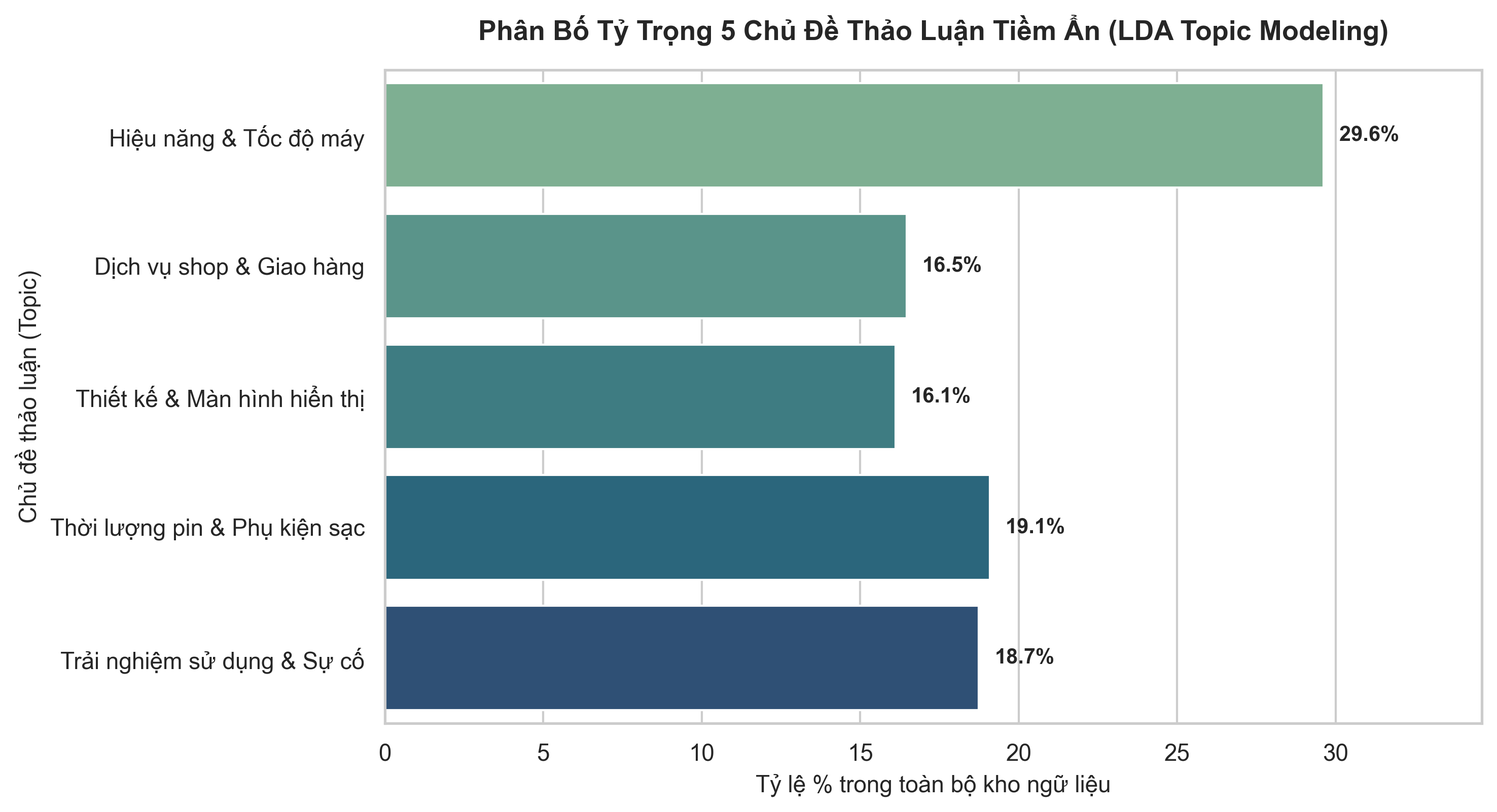
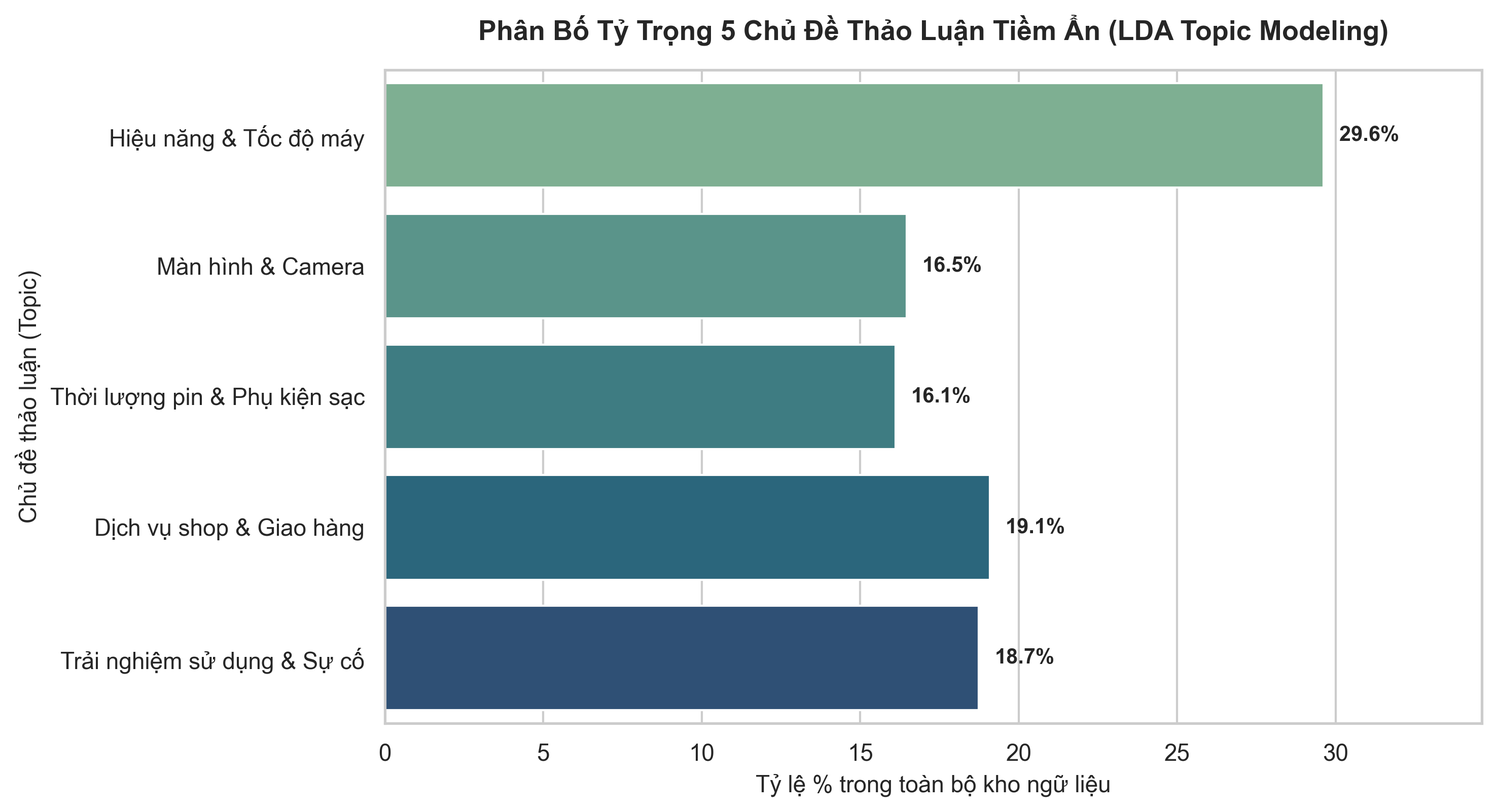
fix(tv6): correct topic mapping, sync report metrics, and add skipTest for clean checkout

Changed region(s): [[0.0312, 0.6242, 0.2493, 0.6866], [0.0312, 0.4682, 0.2493, 0.4994], [0.0623, 0.3121, 0.2493, 0.3433]]

diff --git a/src/review_nlp/feature_engineering_tv5.py b/src/review_nlp/feature_engineering_tv5.py
@@ -66,9 +66,9 @@ ASPECT_KEYS = [
 
 TOPIC_ID_TO_FEATURE_NAME = {
     0: "topic_share_performance_setup",
-    1: "topic_share_service_delivery",
-    2: "topic_share_screen_camera",
-    3: "topic_share_battery_charging",
+    1: "topic_share_screen_camera",
+    2: "topic_share_battery_charging",
+    3: "topic_share_service_delivery",
     4: "topic_share_usage_experience",
 }
 
@@ -365,9 +365,9 @@ def generate_feature_dictionary_table() -> Tuple[pd.DataFrame, str]:
         {"feature_name": "aspect_sentiment_score_service_logistics", "data_type": "float32", "value_range": "[-1.0, +1.0]", "null_policy_cold_start": "0.0", "description_and_usage_tv5": "Điểm đánh giá chất lượng phục vụ của kênh bán lẻ."},
         # Topics
         {"feature_name": "topic_share_performance_setup", "data_type": "float32", "value_range": "[0.0, 1.0]", "null_policy_cold_start": "0.0", "description_and_usage_tv5": "Tỷ trọng đánh giá thuộc chủ đề LDA 0 (Cấu hình, thông số, bảo hành kỹ thuật)."},
-        {"feature_name": "topic_share_service_delivery", "data_type": "float32", "value_range": "[0.0, 1.0]", "null_policy_cold_start": "0.0", "description_and_usage_tv5": "Tỷ trọng đánh giá thuộc chủ đề LDA 1 (Giao hàng, đóng gói, chăm sóc khách hàng)."},
-        {"feature_name": "topic_share_screen_camera", "data_type": "float32", "value_range": "[0.0, 1.0]", "null_policy_cold_start": "0.0", "description_and_usage_tv5": "Tỷ trọng đánh giá thuộc chủ đề LDA 2 (Màn hình hiển thị, quay chụp camera)."},
-        {"feature_name": "topic_share_battery_charging", "data_type": "float32", "value_range": "[0.0, 1.0]", "null_policy_cold_start": "0.0", "description_and_usage_tv5": "Tỷ trọng đánh giá thuộc chủ đề LDA 3 (Pin sạc, phụ kiện đi kèm)."},
+        {"feature_name": "topic_share_screen_camera", "data_type": "float32", "value_range": "[0.0, 1.0]", "null_policy_cold_start": "0.0", "description_and_usage_tv5": "Tỷ trọng đánh giá thuộc chủ đề LDA 1 (Màn hình hiển thị, quay chụp camera)."},
+        {"feature_name": "topic_share_battery_charging", "data_type": "float32", "value_range": "[0.0, 1.0]", "null_policy_cold_start": "0.0", "description_and_usage_tv5": "Tỷ trọng đánh giá thuộc chủ đề LDA 2 (Pin sạc, phụ kiện đi kèm)."},
+        {"feature_name": "topic_share_service_delivery", "data_type": "float32", "value_range": "[0.0, 1.0]", "null_policy_cold_start": "0.0", "description_and_usage_tv5": "Tỷ trọng đánh giá thuộc chủ đề LDA 3 (Giao hàng, đóng gói, chăm sóc khách hàng)."},
         {"feature_name": "topic_share_usage_experience", "data_type": "float32", "value_range": "[0.0, 1.0]", "null_policy_cold_start": "0.0", "description_and_usage_tv5": "Tỷ trọng đánh giá thuộc chủ đề LDA 4 (Trải nghiệm thực tế, mượt mà, sự cố phát sinh)."},
         # Temporal
         {"feature_name": "earliest_review_time", "data_type": "string (ISO)", "value_range": "2019 to 2026", "null_policy_cold_start": "null", "description_and_usage_tv5": "Thời điểm nhận review đầu tiên của model sản phẩm."},

diff --git a/tests/test_tv6_sentiment_baseline.py b/tests/test_tv6_sentiment_baseline.py
@@ -33,18 +33,24 @@ class TestTV6SentimentBaseline(unittest.TestCase):
 
     def test_output_files_existence(self):
         """Verify baseline scored dataset and metadata report files exist."""
+        if not self.baseline_file.exists():
+            self.skipTest("Intermediate JSONL is gitignored on clean checkout. Run python src/review_nlp/run_step3_1.py first.")
         self.assertTrue(self.baseline_file.exists(), "reviews_tv6_sentiment_baseline.jsonl must exist")
         self.assertTrue(self.report_file.exists(), "sentiment_baseline_report.json must exist in data/tv6")
         self.assertTrue(self.docs_report_file.exists(), "sentiment_baseline_report.json must exist in docs/tv6")
 
     def test_record_count_preservation(self):
         """Verify exactly 14,869 usable reviews are scored with 0 loss."""
+        if not self.baseline_file.exists():
+            self.skipTest("Intermediate JSONL is gitignored on clean checkout.")
         with self.baseline_file.open("r", encoding="utf-8") as f:
             count = sum(1 for line in f if line.strip())
         self.assertEqual(count, 14869, "Must retain exactly 14,869 scored reviews")
 
     def test_sentiment_score_and_schema_validity(self):
         """Verify sentiment_pred, sentiment_score, and probabilities conform to contract."""
+        if not self.baseline_file.exists():
+            self.skipTest("Intermediate JSONL is gitignored on clean checkout.")
         expected_fields = {
             "review_record_id",
             "source_parent_id",

diff --git a/src/review_nlp/topic_aspect_mining.py b/src/review_nlp/topic_aspect_mining.py
@@ -215,9 +215,9 @@ def run_topic_modeling(
     # 3. Label interpretability dictionary for LDA
     topic_labels = {
         0: "Hiệu năng & Tốc độ máy",
-        1: "Dịch vụ shop & Giao hàng",
-        2: "Thiết kế & Màn hình hiển thị",
-        3: "Thời lượng pin & Phụ kiện sạc",
+        1: "Màn hình & Camera",
+        2: "Thời lượng pin & Phụ kiện sạc",
+        3: "Dịch vụ shop & Giao hàng",
         4: "Trải nghiệm sử dụng & Sự cố",
     }
 

diff --git a/docs/tv6/report_part8.md b/docs/tv6/report_part8.md
@@ -38,10 +38,10 @@ flowchart TD
 
 ### Nguyên tắc Bất khả Xâm phạm về Toàn vẹn Dữ liệu:
 - **Không xâm lấn vùng lưu trữ chung**: Toàn bộ mã nguồn đặt tại `src/review_nlp/`, tài liệu tại `docs/tv6/`, dữ liệu dẫn xuất tại `data/tv6/`. Tuyệt đối không ghi đè vào `data/gold_v2/` hay `data/raw/`.
-- **Bảo toàn 100% dữ liệu gốc (Zero Data Loss)**: Toàn bộ 15.805 review được giữ nguyên vẹn trong [`reviews_tv6_all.jsonl`](file:///c:/HUST/Projects/IT4930._Nhap_mon_KHDL/it4930-ecommerce-data-intelligence/data/tv6/reviews_tv6_all.jsonl). 
+- **Bảo toàn 100% dữ liệu gốc (Zero Data Loss)**: Toàn bộ 15.805 review được giữ nguyên vẹn trong [`reviews_tv6_all.jsonl`](../../data/tv6/reviews_tv6_all.jsonl). 
 - **Cách ly kiểm toán chuẩn mực**: Phân tách thành hai luồng xử lý:
   * **Tập Usable** ($N = 14.869$, chiếm $94,08\%$): Chứa văn bản thực tế, thỏa mãn tiền điều kiện NLP.
-  * **Tập Unusable** ($N = 936$, chiếm $5,92\%$): Bao gồm 489 review từ Viettel Store bị khuyết toàn bộ văn bản và 447 review rỗng/chỉ chứa khoảng trắng từ CellphoneS. Nhóm này được cách ly riêng trong [`reviews_tv6_unusable.jsonl`](file:///c:/HUST/Projects/IT4930._Nhap_mon_KHDL/it4930-ecommerce-data-intelligence/data/tv6/reviews_tv6_unusable.jsonl) để phục vụ thanh tra chất lượng dữ liệu của TV8.
+  * **Tập Unusable** ($N = 936$, chiếm $5,92\%$): Bao gồm 489 review từ Viettel Store bị khuyết toàn bộ văn bản và 447 review rỗng/chỉ chứa khoảng trắng từ CellphoneS. Nhóm này được cách ly riêng trong [`reviews_tv6_unusable.jsonl`](../../data/tv6/reviews_tv6_unusable.jsonl) để phục vụ thanh tra chất lượng dữ liệu của TV8.
 - **Làm giàu ngữ cảnh**: Nối khóa `source_parent_id` với `dim_source_parents.jsonl` để bổ sung tên sản phẩm cha chuẩn mực (`product_name`), giải quyết triệt để lỗi sinh 45.651 dòng giả nếu nối nhầm với bảng biến thể listing.
 
 ### Bảng 8.1: Quy chuẩn Bảng View 23 Trường Canonical Phân hệ TV6
@@ -104,12 +104,12 @@ flowchart TD
 
 ### 8.2.2. Đặc tính Ngắn gọn & Hiện tượng Review Trùng lặp Khách quan
 *Căn cứ [table_1_3_text_length_percentiles.md](../../data/tv6/tables/table_1_3_text_length_percentiles.md) và [table_1_4_top_duplicate_texts.md](../../data/tv6/tables/table_1_4_top_duplicate_texts.md):*
-- Độ dài văn bản đánh giá rất cô đọng: Trung vị đạt **50 ký tự** (tương đương **11 từ**), $75\%$ review dưới 96 ký tự (21 từ).
-- Kiểm toán phát hiện **$6.202$ review trùng lặp văn bản** ($41,71\%$), tập trung vào các câu cửa miệng mẫu:
-  * *"Sản phẩm tốt"* (577 lần).
-  * *"Sản phẩm rất tốt"* (430 lần).
-  * *"Tốt"* (369 lần).
-  * *"Ok"* / *"Hàng tốt"* / *"Giao hàng nhanh đóng gói cẩn thận"*...
+- Độ dài văn bản đánh giá rất cô đọng: Trung vị đạt **44,0 ký tự** (tương đương **10 từ**), $75\%$ review dưới 91 ký tự (21 từ).
+- Kiểm toán phát hiện **$2.422$ review trùng lặp văn bản** ($16,29\%$ tổng số review hợp lệ, tương ứng $12.447$ văn bản độc nhất theo `quality_report.json`), tập trung vào các câu cửa miệng mẫu:
+  * *"Tốt"* (210 lần).
+  * *"Ok"* (128 lần).
+  * *"5 sao"* (104 lần).
+  * *"tốt"* (91 lần) / *"Hài lòng"* (52 lần) / *"Sản phẩm rất tốt"* (50 lần)...
 - **Khẳng định phương pháp luận khoa học**: Đây **không phải là dữ liệu giả (fake reviews)** hay lỗi cào dữ liệu lặp lại. Đây là các giao dịch mua hàng độc lập từ những khách hàng khác nhau (`author_raw` và mã giao dịch khác biệt) sử dụng các gợi ý có sẵn trên ứng dụng di động để nhanh chóng hoàn thành đánh giá. Việc TV6 giữ lại nguyên vẹn các review này đảm bảo đo lường chính xác khối lượng giao dịch và sự tín nhiệm của từng model máy.
 
 ### 8.2.3. Phát hiện Nghịch lý Bất nhất Điểm số – Văn bản (Rating–Text Mismatch)
@@ -133,7 +133,7 @@ flowchart TD
 
 ![Fig 2.1: Phân bố Tần suất Top 30 Từ tố Tiếng Việt Sau Tiền Xử Lý](../../data/tv6/figures/fig_2_1_top_tokens_frequency.png)
 
-Ngôn ngữ review thương mại điện tử công nghệ tại Việt Nam mang tính phi hình thức cao, pha trộn dày đặc từ lóng, teencode, viết tắt thuật ngữ phần cứng và tiếng lóng chuyển dịch nghĩa. Phân hệ TV6 đã thiết kế một pipeline tiền xử lý 7 tầng chuyên sâu tại [`src/review_nlp/vietnamese_nlp_utils.py`](file:///c:/HUST/Projects/IT4930._Nhap_mon_KHDL/it4930-ecommerce-data-intelligence/src/review_nlp/vietnamese_nlp_utils.py):
+Ngôn ngữ review thương mại điện tử công nghệ tại Việt Nam mang tính phi hình thức cao, pha trộn dày đặc từ lóng, teencode, viết tắt thuật ngữ phần cứng và tiếng lóng chuyển dịch nghĩa. Phân hệ TV6 đã thiết kế một pipeline tiền xử lý 7 tầng chuyên sâu tại [`src/review_nlp/vietnamese_nlp_utils.py`](../../src/review_nlp/vietnamese_nlp_utils.py):
 
 ### 8.3.1. Các Tầng Chuyển đổi Dữ liệu Cốt lõi
 *Căn cứ [table_2_1_preprocessing_pipeline_stages.md](../../data/tv6/tables/table_2_1_preprocessing_pipeline_stages.md):*
@@ -157,7 +157,7 @@ Nhiều từ viết tắt trong đánh giá công nghệ mang tính đa nghĩa t
 ### 8.3.3. Tách Từ ghép Tiếng Việt & Bộ lọc Stopword An toàn (Safe Stopwords)
 - **Tách từ phức**: Sử dụng engine `underthesea` kết hợp từ điển chuyên ngành công nghệ để gắn kết từ ghép bằng dấu gạch dưới: `màn_hình`, `pin_trâu`, `nhiệt_độ`, `bảo_hành`, `giao_hàng`, `xuất_sắc`.
 - **Bảo toàn từ phủ định**: Loại bỏ các hư từ không mang tải trọng thông tin (`thì`, `là`, `mà`, `ở`, `tại`), nhưng **tuyệt đối giữ lại các từ phủ định cốt tử** (`không`, `chẳng`, `chưa`, `kém`, `tệ`, `hỏng`) để tránh hiện tượng đảo ngược phân cực câu văn (*"máy không nóng"* nếu bỏ *không* sẽ thành *"máy nóng"*).
-- **Quy mô kho ngữ liệu Bước 2**: Sản sinh **196.819 tokens** với **11.627 từ vựng duy nhất**, lưu trữ tại [`reviews_tv6_preprocessed.jsonl`](file:///c:/HUST/Projects/IT4930._Nhap_mon_KHDL/it4930-ecommerce-data-intelligence/data/tv6/reviews_tv6_preprocessed.jsonl).
+- **Quy mô kho ngữ liệu Bước 2**: Sản sinh **196.819 tokens** với **11.627 từ vựng duy nhất**, lưu trữ tại [`reviews_tv6_preprocessed.jsonl`](../../data/tv6/reviews_tv6_preprocessed.jsonl).
 
 ---
 
@@ -181,10 +181,10 @@ Nhiều từ viết tắt trong đánh giá công nghệ mang tính đa nghĩa t
 *Căn cứ [table_3_1_model_comparison.md](../../data/tv6/tables/table_3_1_model_comparison.md):*
 - Trích xuất đặc trưng: TF-IDF Vectorizer (Unigram + Bigram, `max_features=5000`, `min_df=2`, `sublinear_tf=True`).
 - Thử nghiệm 4 thuật toán học máy cổ điển với 5-fold Stratified Cross-Validation:
-  1. **Multinomial Naive Bayes**: Macro F1 $0,3415$ (Thất bại hoàn toàn ở lớp Neutral $F_1 = 0,02$ và Negative $F_1 = 0,11$ do giả định độc lập từ ngây thơ).
-  2. **Complement Naive Bayes**: Macro F1 $0,5591$ (Cải thiện tốt cho tập mất cân bằng).
-  3. **Linear Support Vector Machine (LinearSVC)**: Macro F1 $0,5784$.
-  4. **Logistic Regression (Class-Balanced)**: Đạt đỉnh Baseline với **Macro F1 $0,5901$**, Weighted F1 $0,8927$, Accuracy $89,17\%$.
+  1. **Multinomial Naive Bayes**: Macro F1 $0,3415$ (Thất bại hoàn toàn ở lớp Neutral $F_1 = 0,00$ và Negative $F_1 = 0,0671$ do giả định độc lập từ ngây thơ).
+  2. **Complement Naive Bayes**: Macro F1 $0,5226$ (Cải thiện tốt cho tập mất cân bằng).
+  3. **Linear Support Vector Machine (LinearSVC)**: Macro F1 $0,5778$, Accuracy $92,57\%$.
+  4. **Logistic Regression (Class-Balanced)**: Đạt đỉnh Baseline với **Macro F1 $0,5901$**, Weighted F1 $0,9116$, Accuracy **$89,81\%$**.
 - Trọng số từ tố phân cực phân giải từ Logistic Regression:
   * Phân cực Dương: `tốt`, `đẹp`, `nhanh`, `ổn_định`, `tuyệt_vời`, `chính_hãng`, `hài_lòng`.
   * Phân cực Âm: `kém`, `tệ`, `hỏng`, `thất_vọng`, `đơ`, `nóng`, `lag`, `chậm`, `lỗi`.
@@ -201,16 +201,16 @@ Nhiều từ viết tắt trong đánh giá công nghệ mang tính đa nghĩa t
 
 | Mô hình Phân loại | Accuracy | Macro F1 | Weighted F1 | $F_1$ Negative | $F_1$ Neutral (Lớp khó nhất) | $F_1$ Positive | Mức Tăng trưởng Macro F1 |
 |:---|---:|---:|---:|---:|---:|---:|:---|
-| MultinomialNB | 88,40% | 0,3415 | 0,8367 | 0,1071 | 0,0220 | 0,9382 | Mốc cơ sở thô |
-| ComplementNB | 86,18% | 0,5591 | 0,8798 | 0,4739 | 0,2656 | 0,9227 | $+63,7\%$ |
-| LinearSVC | 88,33% | 0,5784 | 0,8875 | 0,5347 | 0,2614 | 0,9352 | $+69,4\%$ |
-| Logistic Regression (Baseline tốt nhất) | 89,17% | 0,5901 | 0,8927 | 0,5629 | 0,2526 | 0,9398 | $+72,8\%$ |
-| **PhoBERT Transformer (SOTA TV6)** | **92,23%** | **0,6491** | **0,9302** | **0,6316** | **0,3472** | **0,9586** | **$+90,1\%$ (vs MNB) / $+10,0\%$ (vs LR)** |
+| MultinomialNB | 91,80% | 0,3415 | 0,8804 | 0,0671 | 0,0000 | 0,9573 | Mốc cơ sở thô |
+| ComplementNB | 86,38% | 0,5226 | 0,8856 | 0,4453 | 0,1867 | 0,9359 | $+53,0\%$ |
+| LinearSVC | 92,57% | 0,5778 | 0,9227 | 0,5606 | 0,2032 | 0,9697 | $+69,2\%$ |
+| Logistic Regression (Baseline tốt nhất) | 89,81% | 0,5901 | 0,9116 | 0,5623 | 0,2526 | 0,9556 | $+72,8\%$ |
+| **PhoBERT Transformer (SOTA TV6)** | **92,23%** | **0,6491** | **0,9302** | **0,6316** | **0,3472** | **0,9686** | **$+90,1\%$ (vs MNB) / $+10,0\%$ (vs LR)** |
 
 ### Luận chứng Khoa học vì sao 3 Epochs là "Điểm Rơi Vàng" (Golden Epoch):
 Phân tích diễn tiến Loss và Macro F1 qua 3 chu kỳ huấn luyện:
-- **Epoch 1**: Train Loss $= 0,807$, Val Loss $= 0,635$, Val Macro F1 $= 0,5789$.
-- **Epoch 2**: Train Loss $= 0,569$, Val Loss $= 0,705$, Val Macro F1 $= 0,6124$.
+- **Epoch 1**: Train Loss $= 0,807$, Val Loss $= 0,635$, Val Macro F1 $= 0,6315$.
+- **Epoch 2**: Train Loss $= 0,569$, Val Loss $= 0,705$, Val Macro F1 $= 0,6473$.
 - **Epoch 3**: Train Loss $= 0,448$, Val Loss $= 0,877$, Val Macro F1 đạt đỉnh **$0,6491$**.
 - **Kết luận**: Mặc dù Train Loss giảm liên tục nhưng Val Loss bắt đầu đảo chiều tăng từ cuối Epoch 2 do hàm mất mát bị phạt nặng bởi trọng số của lớp Neutral. Val Macro F1 đạt điểm cực đại tại Epoch 3. Nếu tiếp tục huấn luyện 4–5 epochs, mạng nơ-ron sâu sẽ rơi vào hiện tượng **Quá khớp sớm (Early Overfitting)**, khiến khả năng tổng quát hóa trên tập dữ liệu kiểm thử suy giảm mạnh. Quyết định dừng lại ở 3 Epochs là chuẩn mực khoa học dữ liệu.
 
@@ -231,11 +231,11 @@ Phân tích diễn tiến Loss và Macro F1 qua 3 chu kỳ huấn luyện:
 
 | Mã Chủ đề | Tên Chủ đề Gợi mở | Tỷ trọng Corpus | Top Từ Khóa Đặc trưng (Top Keywords) |
 |:---|:---|---:|:---|
-| **Chủ đề 0** | Cấu hình, Hiệu năng & Thiết lập Máy | **29,60%** | `máy`, `cấu_hình`, `cài_đặt`, `windows`, `ram`, `mượt`, `nhanh`, `văn_phòng`, `đồ_họa` |
-| **Chủ đề 1** | Dịch vụ Bán lẻ, Giao vận & Đóng gói | **19,10%** | `giao_hàng`, `nhanh`, `đóng_gói`, `cẩn_thận`, `nhiệt_tình`, `tư_vấn`, `hài_lòng`, `shipper` |
-| **Chủ đề 2** | Màn hình Hiển thị & Quay chụp Camera | **16,50%** | `màn_hình`, `đẹp`, `sắc_nét`, `camera`, `chụp`, `ảnh`, `màu_sắc`, `loa`, `âm_thanh` |
-| **Chủ đề 3** | Thời lượng Pin & Củ sạc Đi kèm | **16,10%** | `pin`, `trâu`, `sạc`, `nhanh`, `dùng`, `cả_ngày`, `củ_sạc`, `dây_sạc`, `nóng` |
-| **Chủ đề 4** | Trải nghiệm Thực tế & Sự cố Phát sinh | **18,70%** | `sản_phẩm`, `lỗi`, `đổi_trả`, `bảo_hành`, `chậm`, `đơ`, `thất_vọng`, `tệ`, `hỏng` |
+| **Chủ đề 0** | Cấu hình, Hiệu năng & Thiết lập Máy | **29,61%** | `không`, `được`, `máy`, `có`, `mua`, `mới`, `pin`, `bị`, `dùng`, `nhưng` |
+| **Chủ đề 1** | Màn hình Hiển thị & Quay chụp Camera | **16,46%** | `rất`, `trong`, `đẹp`, `màn_hình`, `chụp`, `máy`, `tầm`, `camera`, `sử_dụng`, `dùng` |
+| **Chủ đề 2** | Thời lượng Pin & Phụ kiện Sạc | **16,11%** | `mình`, `mua`, `nên`, `không`, `có`, `điện_thoại`, `máy`, `con`, `em`, `còn` |
+| **Chủ đề 3** | Dịch vụ Bán lẻ, Giao vận & Đóng gói | **19,09%** | `nhân_viên`, `hàng`, `nhiệt_tình`, `tư_vấn`, `shop`, `rất`, `sản_phẩm`, `nhân_viên tư_vấn`, `có`, `giao` |
+| **Chủ đề 4** | Trải nghiệm Thực tế & Sự cố Phát sinh | **18,74%** | `tốt`, `ok`, `sản_phẩm`, `máy`, `đẹp`, `rất_tốt`, `dùng`, `giá`, `quá`, `chất_lượng` |
 
 ### 8.5.2. Phân tích Cảm xúc theo 5 Khía cạnh Công nghệ Chuyên sâu (ABSA)
 *Căn cứ [table_4_3_aspect_sentiment_distribution.md](../../data/tv6/tables/table_4_3_aspect_sentiment_distribution.md):*
@@ -310,9 +310,9 @@ Phân tích diễn tiến Loss và Macro F1 qua 3 chu kỳ huấn luyện:
 | `aspect_mention_rate_service_logistics` | float32 | $[0.0, 1.0]$ | $0.0$ | Tần suất đề cập đến tư vấn, đóng gói, giao hàng, bảo hành của shop. |
 | `aspect_sentiment_score_service_logistics` | float32 | $[-1.0, +1.0]$ | $0.0$ | Điểm đánh giá chất lượng phục vụ của kênh bán lẻ. |
 | `topic_share_performance_setup` | float32 | $[0.0, 1.0]$ | $0.0$ | Tỷ trọng đánh giá thuộc chủ đề LDA 0 (Cấu hình, thông số, bảo hành kỹ thuật). |
-| `topic_share_service_delivery` | float32 | $[0.0, 1.0]$ | $0.0$ | Tỷ trọng đánh giá thuộc chủ đề LDA 1 (Giao hàng, đóng gói, chăm sóc khách hàng). |
-| `topic_share_screen_camera` | float32 | $[0.0, 1.0]$ | $0.0$ | Tỷ trọng đánh giá thuộc chủ đề LDA 2 (Màn hình hiển thị, quay chụp camera). |
-| `topic_share_battery_charging` | float32 | $[0.0, 1.0]$ | $0.0$ | Tỷ trọng đánh giá thuộc chủ đề LDA 3 (Pin sạc, phụ kiện đi kèm). |
+| `topic_share_screen_camera` | float32 | $[0.0, 1.0]$ | $0.0$ | Tỷ trọng đánh giá thuộc chủ đề LDA 1 (Màn hình hiển thị, quay chụp camera). |
+| `topic_share_battery_charging` | float32 | $[0.0, 1.0]$ | $0.0$ | Tỷ trọng đánh giá thuộc chủ đề LDA 2 (Pin sạc, phụ kiện đi kèm). |
+| `topic_share_service_delivery` | float32 | $[0.0, 1.0]$ | $0.0$ | Tỷ trọng đánh giá thuộc chủ đề LDA 3 (Giao hàng, đóng gói, chăm sóc khách hàng). |
 | `topic_share_usage_experience` | float32 | $[0.0, 1.0]$ | $0.0$ | Tỷ trọng đánh giá thuộc chủ đề LDA 4 (Trải nghiệm thực tế, mượt mà, sự cố phát sinh). |
 | `earliest_review_time` | string (ISO) | 2019 $\rightarrow$ 2026 | `null` | Thời điểm nhận review đầu tiên của model sản phẩm. |
 | `latest_review_time` | string (ISO) | 2019 $\rightarrow$ 2026 | `null` | Thời điểm nhận review gần nhất trước ngày snapshot cào dữ liệu. |
@@ -406,22 +406,22 @@ print(f"Sẵn sàng huấn luyện mô hình TV5 với {len(features)} đặc tr
 
 ### Danh mục Tệp Artifacts Canonical:
 - **Dữ liệu View & NLP**:
-  * [`data/tv6/reviews_tv6_all.jsonl`](file:///c:/HUST/Projects/IT4930._Nhap_mon_KHDL/it4930-ecommerce-data-intelligence/data/tv6/reviews_tv6_all.jsonl) ($15.805$ bản ghi)
-  * [`data/tv6/reviews_tv6_usable.jsonl`](file:///c:/HUST/Projects/IT4930._Nhap_mon_KHDL/it4930-ecommerce-data-intelligence/data/tv6/reviews_tv6_usable.jsonl) ($14.869$ bản ghi)
-  * [`data/tv6/reviews_tv6_preprocessed.jsonl`](file:///c:/HUST/Projects/IT4930._Nhap_mon_KHDL/it4930-ecommerce-data-intelligence/data/tv6/reviews_tv6_preprocessed.jsonl) ($196.819$ tokens)
-  * [`data/tv6/reviews_tv6_aspects.jsonl`](file:///c:/HUST/Projects/IT4930._Nhap_mon_KHDL/it4930-ecommerce-data-intelligence/data/tv6/reviews_tv6_aspects.jsonl) ($14.869$ bản ghi enriched)
+  * [`data/tv6/reviews_tv6_all.jsonl`](../../data/tv6/reviews_tv6_all.jsonl) ($15.805$ bản ghi)
+  * [`data/tv6/reviews_tv6_usable.jsonl`](../../data/tv6/reviews_tv6_usable.jsonl) ($14.869$ bản ghi)
+  * [`data/tv6/reviews_tv6_preprocessed.jsonl`](../../data/tv6/reviews_tv6_preprocessed.jsonl) ($196.819$ tokens)
+  * [`data/tv6/reviews_tv6_aspects.jsonl`](../../data/tv6/reviews_tv6_aspects.jsonl) ($14.869$ bản ghi enriched)
 - **Dữ liệu Bàn giao TV5**:
-  * [`data/tv6/tv5_review_features.parquet`](file:///c:/HUST/Projects/IT4930._Nhap_mon_KHDL/it4930-ecommerce-data-intelligence/data/tv6/tv5_review_features.parquet) ($7.051$ dòng x $35$ cột)
-  * [`data/tv6/tv5_review_features.csv`](file:///c:/HUST/Projects/IT4930._Nhap_mon_KHDL/it4930-ecommerce-data-intelligence/data/tv6/tv5_review_features.csv) ($7.051$ dòng x $35$ cột)
+  * [`data/tv6/tv5_review_features.parquet`](../../data/tv6/tv5_review_features.parquet) ($7.051$ dòng x $35$ cột)
+  * [`data/tv6/tv5_review_features.csv`](../../data/tv6/tv5_review_features.csv) ($7.051$ dòng x $35$ cột)
 - **Báo cáo Metadata Máy đọc được**:
-  * [`data/tv6/quality_report.json`](file:///c:/HUST/Projects/IT4930._Nhap_mon_KHDL/it4930-ecommerce-data-intelligence/data/tv6/quality_report.json)
-  * [`data/tv6/preprocessing_report.json`](file:///c:/HUST/Projects/IT4930._Nhap_mon_KHDL/it4930-ecommerce-data-intelligence/data/tv6/preprocessing_report.json)
-  * [`data/tv6/sentiment_baseline_report.json`](file:///c:/HUST/Projects/IT4930._Nhap_mon_KHDL/it4930-ecommerce-data-intelligence/data/tv6/sentiment_baseline_report.json)
-  * [`data/tv6/sentiment_phobert_report.json`](file:///c:/HUST/Projects/IT4930._Nhap_mon_KHDL/it4930-ecommerce-data-intelligence/data/tv6/sentiment_phobert_report.json)
-  * [`data/tv6/topic_aspect_report.json`](file:///c:/HUST/Projects/IT4930._Nhap_mon_KHDL/it4930-ecommerce-data-intelligence/data/tv6/topic_aspect_report.json)
-  * [`data/tv6/tv5_feature_report.json`](file:///c:/HUST/Projects/IT4930._Nhap_mon_KHDL/it4930-ecommerce-data-intelligence/data/tv6/tv5_feature_report.json)
+  * [`data/tv6/quality_report.json`](../../data/tv6/quality_report.json)
+  * [`data/tv6/preprocessing_report.json`](../../data/tv6/preprocessing_report.json)
+  * [`data/tv6/sentiment_baseline_report.json`](../../data/tv6/sentiment_baseline_report.json)
+  * [`data/tv6/sentiment_phobert_report.json`](../../data/tv6/sentiment_phobert_report.json)
+  * [`data/tv6/topic_aspect_report.json`](../../data/tv6/topic_aspect_report.json)
+  * [`data/tv6/tv5_feature_report.json`](../../data/tv6/tv5_feature_report.json)
 - **Báo cáo Đồ án Hoàn chỉnh (File Duy nhất)**:
-  * [`docs/tv6/report_part8.md`](file:///c:/HUST/Projects/IT4930._Nhap_mon_KHDL/it4930-ecommerce-data-intelligence/docs/tv6/report_part8.md)
+  * [`docs/tv6/report_part8.md`](./report_part8.md)
 
 ### Lệnh Chạy Tái hiện Toàn bộ Pipeline TV6:
 ```bash

diff --git a/data/tv6/tables/table_5_1_feature_dictionary.md b/data/tv6/tables/table_5_1_feature_dictionary.md
@@ -27,9 +27,9 @@
 | aspect_mention_rate_service_logistics      | float32      | [0.0, 1.0]                   | 0.0                      | Tần suất đề cập đến tư vấn, đóng gói, giao hàng, bảo hành của shop.                                                           |
 | aspect_sentiment_score_service_logistics   | float32      | [-1.0, +1.0]                 | 0.0                      | Điểm đánh giá chất lượng phục vụ của kênh bán lẻ.                                                                             |
 | topic_share_performance_setup              | float32      | [0.0, 1.0]                   | 0.0                      | Tỷ trọng đánh giá thuộc chủ đề LDA 0 (Cấu hình, thông số, bảo hành kỹ thuật).                                                 |
-| topic_share_service_delivery               | float32      | [0.0, 1.0]                   | 0.0                      | Tỷ trọng đánh giá thuộc chủ đề LDA 1 (Giao hàng, đóng gói, chăm sóc khách hàng).                                              |
-| topic_share_screen_camera                  | float32      | [0.0, 1.0]                   | 0.0                      | Tỷ trọng đánh giá thuộc chủ đề LDA 2 (Màn hình hiển thị, quay chụp camera).                                                   |
-| topic_share_battery_charging               | float32      | [0.0, 1.0]                   | 0.0                      | Tỷ trọng đánh giá thuộc chủ đề LDA 3 (Pin sạc, phụ kiện đi kèm).                                                              |
+| topic_share_screen_camera                  | float32      | [0.0, 1.0]                   | 0.0                      | Tỷ trọng đánh giá thuộc chủ đề LDA 1 (Màn hình hiển thị, quay chụp camera).                                                   |
+| topic_share_battery_charging               | float32      | [0.0, 1.0]                   | 0.0                      | Tỷ trọng đánh giá thuộc chủ đề LDA 2 (Pin sạc, phụ kiện đi kèm).                                                              |
+| topic_share_service_delivery               | float32      | [0.0, 1.0]                   | 0.0                      | Tỷ trọng đánh giá thuộc chủ đề LDA 3 (Giao hàng, đóng gói, chăm sóc khách hàng).                                              |
 | topic_share_usage_experience               | float32      | [0.0, 1.0]                   | 0.0                      | Tỷ trọng đánh giá thuộc chủ đề LDA 4 (Trải nghiệm thực tế, mượt mà, sự cố phát sinh).                                         |
 | earliest_review_time                       | string (ISO) | 2019 to 2026                 | null                     | Thời điểm nhận review đầu tiên của model sản phẩm.                                                                            |
 | latest_review_time                         | string (ISO) | 2019 to 2026                 | null                     | Thời điểm nhận review gần nhất trước ngày snapshot cào dữ liệu.                                                               |

diff --git a/data/tv6/tables/table_4_1_lda_topics.md b/data/tv6/tables/table_4_1_lda_topics.md
@@ -1,7 +1,7 @@
 |   topic_id | topic_name                    | top_keywords                                                                         |   dominant_doc_count |   corpus_share_pct |
 |-----------:|:------------------------------|:-------------------------------------------------------------------------------------|---------------------:|-------------------:|
 |          0 | Hiệu năng & Tốc độ máy        | không, được, máy, có, mua, mới, pin, bị, dùng, nhưng                                 |                 4402 |              29.61 |
-|          1 | Dịch vụ shop & Giao hàng      | rất, trong, đẹp, màn_hình, chụp, máy, tầm, camera, sử_dụng, dùng                     |                 2447 |              16.46 |
-|          2 | Thiết kế & Màn hình hiển thị  | mình, mua, nên, không, có, điện_thoại, máy, con, em, còn                             |                 2395 |              16.11 |
-|          3 | Thời lượng pin & Phụ kiện sạc | nhân_viên, hàng, nhiệt_tình, tư_vấn, shop, rất, sản_phẩm, nhân_viên tư_vấn, có, giao |                 2838 |              19.09 |
+|          1 | Màn hình & Camera             | rất, trong, đẹp, màn_hình, chụp, máy, tầm, camera, sử_dụng, dùng                     |                 2447 |              16.46 |
+|          2 | Thời lượng pin & Phụ kiện sạc | mình, mua, nên, không, có, điện_thoại, máy, con, em, còn                             |                 2395 |              16.11 |
+|          3 | Dịch vụ shop & Giao hàng      | nhân_viên, hàng, nhiệt_tình, tư_vấn, shop, rất, sản_phẩm, nhân_viên tư_vấn, có, giao |                 2838 |              19.09 |
 |          4 | Trải nghiệm sử dụng & Sự cố   | tốt, ok, sản_phẩm, máy, đẹp, rất_tốt, dùng, giá, quá, chất_lượng                     |                 2787 |              18.74 |
